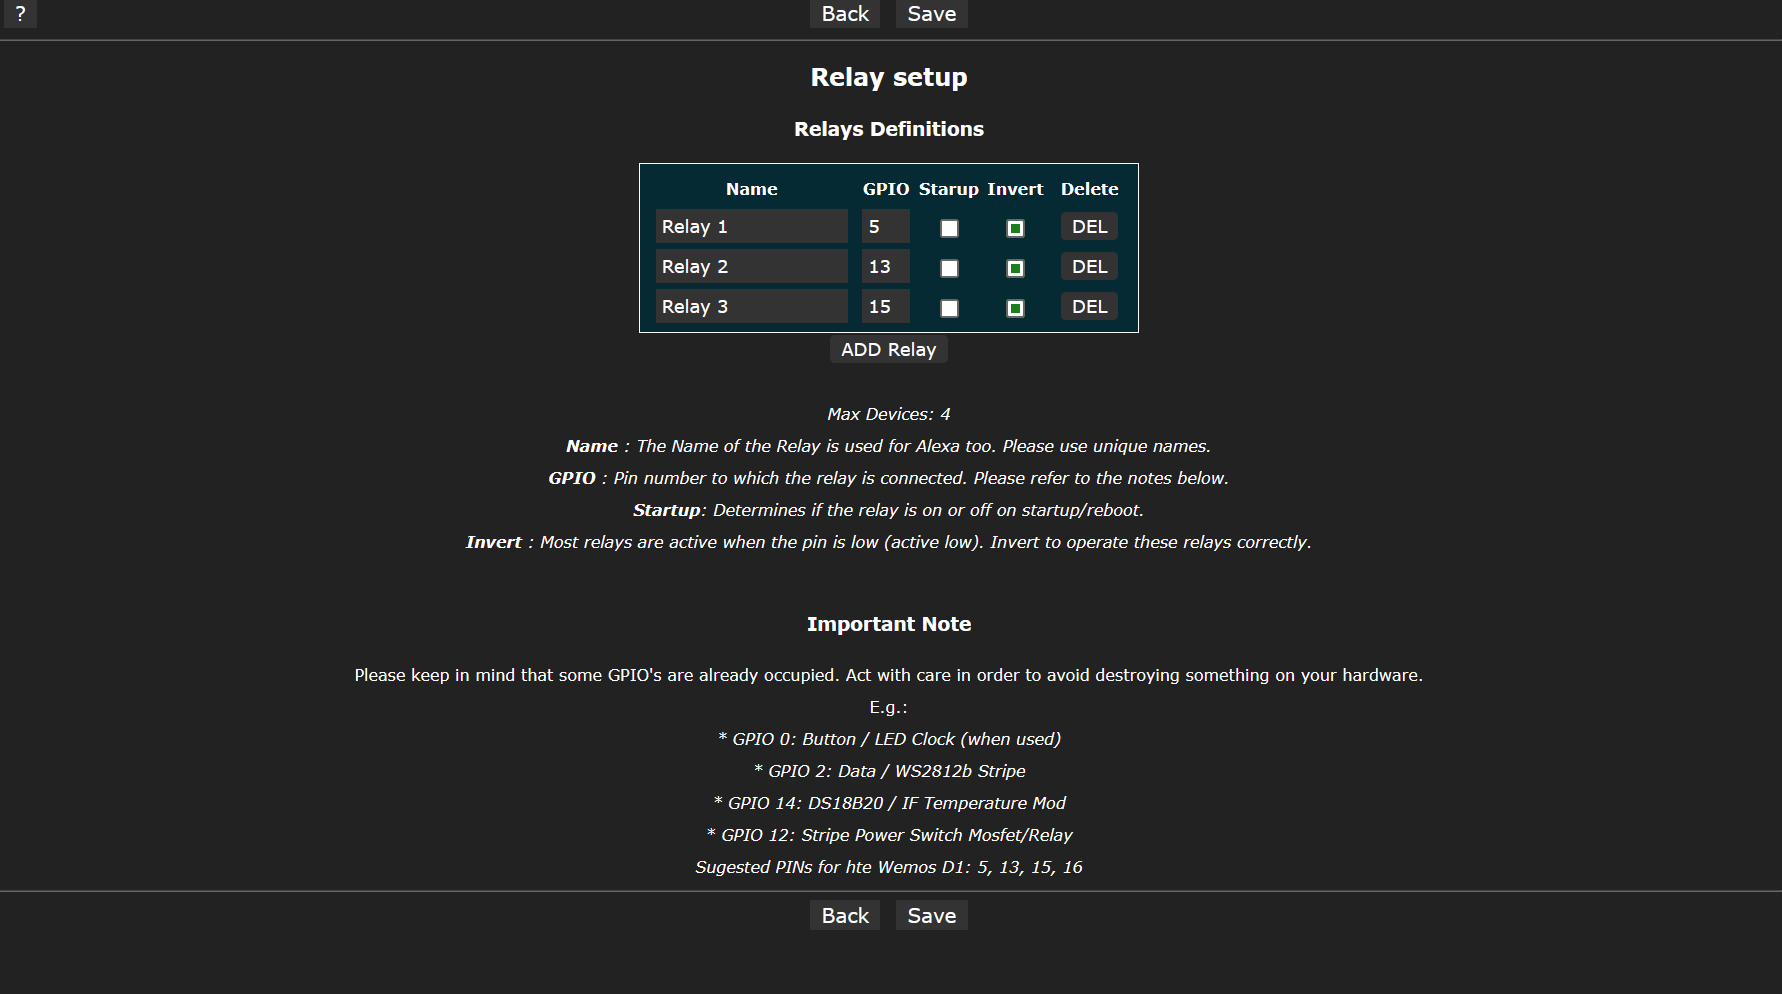
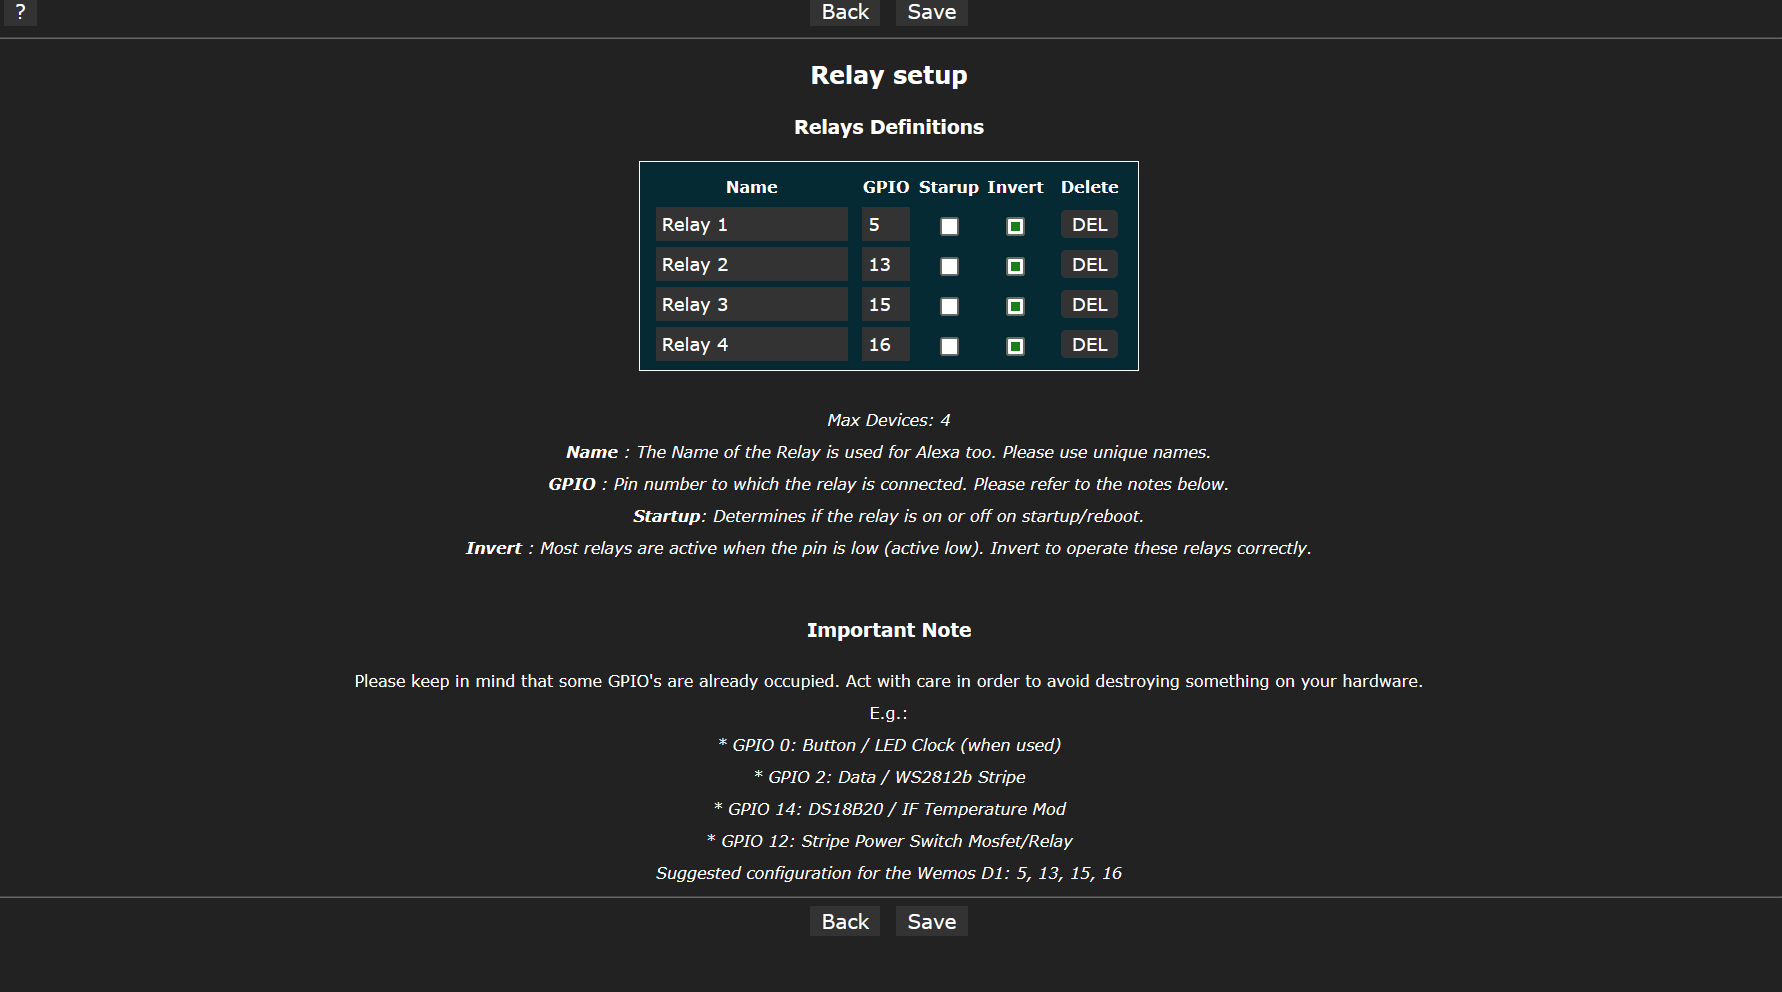
Typos

diff --git a/wled00/html_settings.h b/wled00/html_settings.h
@@ -398,6 +398,7 @@ Please keep in mind that some GPIO's are already occupied. Act with care in orde
 <br>E.g.:<br><i>* GPIO 0: Button / LED Clock (when used)<br>
 * GPIO 2: Data / WS2812b Stripe<br>* GPIO 14: DS18B20 / IF Temperature Mod<br>
 * GPIO 12: Stripe Power Switch Mosfet/Relay<br></i><i>
-Sugested PINs for hte Wemos D1: 5, 13, 15, 16</i><hr><button type="button" 
-onclick="B()">Back</button><button onclick="save()">Save</button></body></html>)=====";
+Suggested configuration for the Wemos D1: 5, 13, 15, 16</i><hr><button 
+type="button" onclick="B()">Back</button><button onclick="save()">Save</button>
+</body></html>)=====";
 
